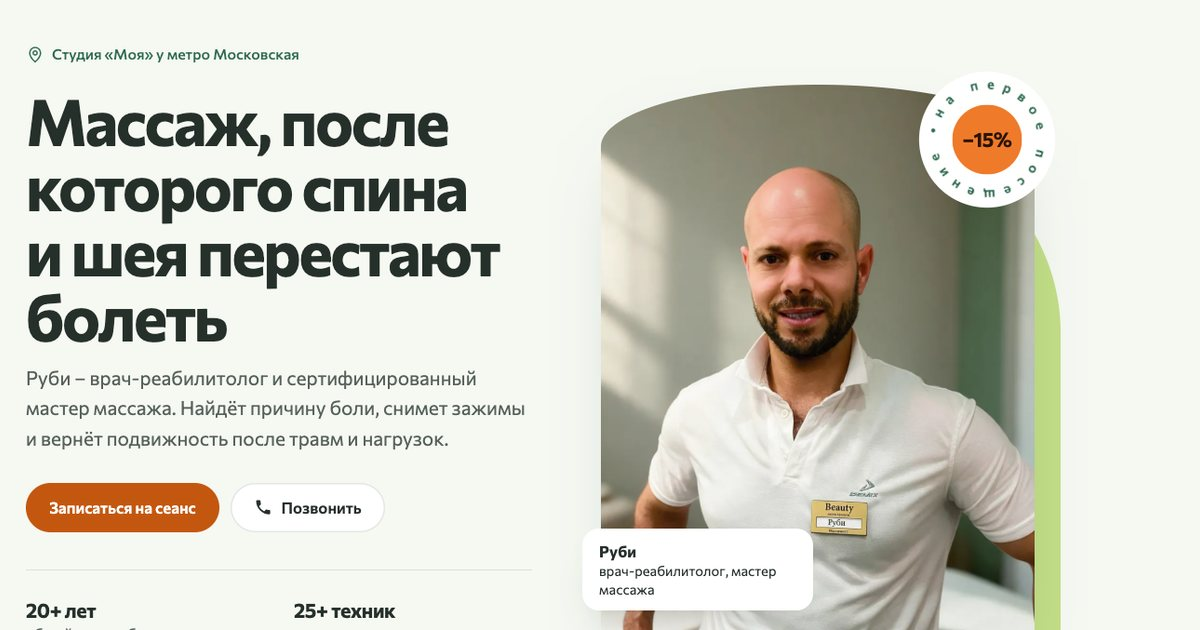
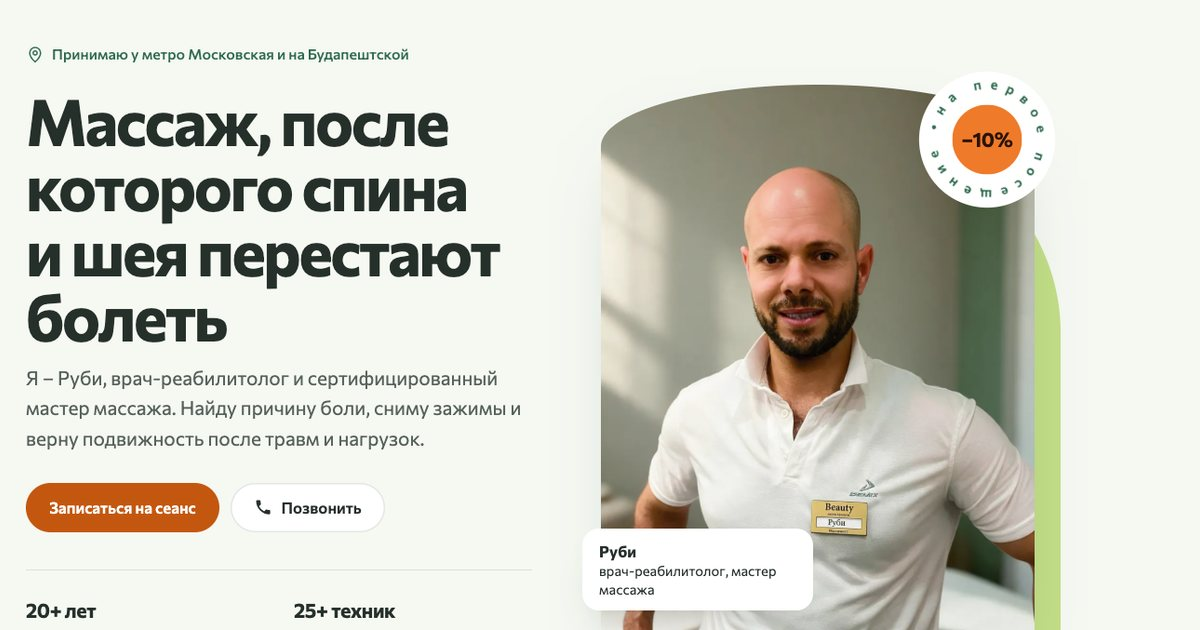
Сайт Руби: скидка 10%, второй адрес, тексты от первого лица

diff --git a/ruby/index.html b/ruby/index.html
@@ -5,11 +5,11 @@
 <meta name="viewport" content="width=device-width, initial-scale=1, viewport-fit=cover">
 <meta name="robots" content="noindex">
 <title>Массаж у метро Московская – Руби, врач-реабилитолог | студия «Моя»</title>
-<meta name="description" content="Лечебный массаж спины и шеи, реабилитация после травм, спортивный и расслабляющий массаж в Московском районе Санкт-Петербурга. Руби – врач-реабилитолог, стаж более 20 лет. Ул. Типанова, 27/39, ТК «Космос». −15% на первый визит.">
+<meta name="description" content="Я – Руби, врач-реабилитолог со стажем более 20 лет. Делаю лечебный массаж спины и шеи, реабилитацию после травм, спортивный и расслабляющий массаж в Санкт-Петербурге. Ул. Типанова, 27/39, ТК «Космос», и ул. Будапештская, 24, корп. 2. −10% на первый визит.">
 <meta property="og:type" content="website">
 <meta property="og:locale" content="ru_RU">
 <meta property="og:title" content="Массаж у врача-реабилитолога – Руби, м. Московская">
-<meta property="og:description" content="Боль в спине и шее, восстановление после травм и спорта. Стаж более 20 лет, 25+ техник. −15% на первый визит.">
+<meta property="og:description" content="Помогаю при боли в спине и шее, восстанавливаю после травм и спорта. Стаж более 20 лет, 25+ техник. −10% на первый визит.">
 <meta property="og:url" content="https://pavel-sites.github.io/ruby">
 <meta property="og:image" content="https://pavel-sites.github.io/ruby/assets/og.jpg">
 <meta property="og:image:width" content="1200">
@@ -241,6 +241,9 @@
   .addr__card .tel2 { font-weight: 600; text-decoration: none; }
   .addr__card p { line-height: 1.45; }
   .addr__card small { color: var(--ink-soft); font-size: .95rem; }
+  .places { display: grid; gap: .9rem; }
+  .places p { padding-left: 1rem; border-left: 3px solid var(--salad); }
+  .places a { color: var(--green); font-weight: 600; text-underline-offset: 3px; }
   .msg { display: flex; flex-wrap: wrap; gap: .5rem; }
   .msg a { display: inline-flex; align-items: center; gap: .5rem; min-height: 46px; padding: .5rem 1rem; border-radius: 999px; background: var(--white); text-decoration: none; font-weight: 600; font-size: .95rem; }
   .msg a svg { width: 22px; height: 22px; flex: none; }
@@ -289,17 +292,17 @@
   <section class="hero" id="top" aria-label="Руби, массаж и реабилитация">
     <div class="wrap hero__in">
       <div class="hero__text">
-        <p class="where"><svg aria-hidden="true"><use href="#i-pin"/></svg>Студия «Моя» у метро Московская</p>
+        <p class="where"><svg aria-hidden="true"><use href="#i-pin"/></svg>Принимаю у метро Московская и на Будапештской</p>
         <h1>Массаж, после которого спина и&nbsp;шея перестают болеть</h1>
-        <p class="lead">Руби – врач-реабилитолог и сертифицированный мастер массажа. Найдёт причину боли, снимет зажимы и вернёт подвижность после травм и нагрузок.</p>
+        <p class="lead">Я – Руби, врач-реабилитолог и сертифицированный мастер массажа. Найду причину боли, сниму зажимы и верну подвижность после травм и нагрузок.</p>
         <div class="hero__cta">
           <a class="btn btn--go" href="#zapis">Записаться на сеанс</a>
           <a class="btn btn--soft" href="tel:+78126432740" data-goal="call"><svg aria-hidden="true"><use href="#i-ph"/></svg>Позвонить</a>
         </div>
         <ul class="creds">
-          <li><b>20+ лет</b>общий стаж работы</li>
+          <li><b>20+ лет</b>моего стажа</li>
           <li><b>25+ техник</b>массажа и восстановления</li>
-          <li><b>Каир, Египет</b>медицинское образование</li>
+          <li><b>Каир, Египет</b>где я учился медицине</li>
           <li><b>Дипломы</b>международного образца</li>
         </ul>
       </div>
@@ -309,13 +312,13 @@
           <img src="assets/ruby.webp" alt="Руби, массажист и врач-реабилитолог, в кабинете студии «Моя»" width="900" height="1200" fetchpriority="high">
         </picture>
         <figcaption><b>Руби</b>врач-реабилитолог, мастер массажа</figcaption>
-        <a class="seal" href="#uslugi" aria-label="Скидка 15% на первое посещение">
+        <a class="seal" href="#uslugi" aria-label="Скидка 10% на первое посещение">
           <svg viewBox="0 0 160 160" aria-hidden="true">
             <defs><path id="ringpath" d="M80 80 m-58 0 a58 58 0 1 1 116 0 a58 58 0 1 1 -116 0"/></defs>
             <circle cx="80" cy="80" r="78" fill="#fff"/>
             <g class="ring"><text font-family="Commissioner, sans-serif" font-size="15.5" font-weight="600" fill="#2f6b4f" textLength="352" lengthAdjust="spacing"><textPath href="#ringpath" textLength="352" lengthAdjust="spacing">на первое посещение •</textPath></text></g>
             <circle cx="80" cy="80" r="40" fill="#ef7a2a"/>
-            <text x="80" y="88" text-anchor="middle" font-family="Commissioner, sans-serif" font-size="23" font-weight="700" letter-spacing="-.5" fill="#2a1406">−15%</text>
+            <text x="80" y="88" text-anchor="middle" font-family="Commissioner, sans-serif" font-size="23" font-weight="700" letter-spacing="-.5" fill="#2a1406">−10%</text>
           </svg>
         </a>
       </figure>
@@ -327,21 +330,21 @@
     <div class="wrap">
       <div class="req">
         <div class="req__head">
-          <h2 class="h2">С чем приходят к&nbsp;Руби</h2>
-          <p class="lead">Выберите, где беспокоит, – и узнайте, как проходит работа с этой зоной.</p>
+          <h2 class="h2">С чем ко мне приходят</h2>
+          <p class="lead">Выберите, где беспокоит, – и я расскажу, как работаю с этой зоной.</p>
         </div>
         <div class="req__body">
           <div class="zpanel" id="zpanel" role="tabpanel" aria-live="polite">
             <h3>Шея и плечи</h3>
             <p>Тяжесть в голове к вечеру, «каменные» плечи, головные боли после работы за компьютером.</p>
             <ul>
-              <li><svg aria-hidden="true"><use href="#i-ok"/></svg>Снимаем спазм шейно-воротниковой зоны</li>
-              <li><svg aria-hidden="true"><use href="#i-ok"/></svg>Возвращаем подвижность шее без резких движений</li>
-              <li><svg aria-hidden="true"><use href="#i-ok"/></svg>Показываем упражнения, чтобы эффект держался</li>
+              <li><svg aria-hidden="true"><use href="#i-ok"/></svg>Снимаю спазм шейно-воротниковой зоны</li>
+              <li><svg aria-hidden="true"><use href="#i-ok"/></svg>Возвращаю подвижность шее без резких движений</li>
+              <li><svg aria-hidden="true"><use href="#i-ok"/></svg>Показываю упражнения, чтобы эффект держался</li>
             </ul>
             <a href="#uslugi">Подходит: массаж шейно-воротниковой зоны</a>
           </div>
-          <p class="also">Ещё приходят без конкретной боли – за расслаблением, хорошим сном и красивой фигурой.</p>
+          <p class="also">Ещё ко мне приходят без конкретной боли – за расслаблением, хорошим сном и красивой фигурой.</p>
         </div>
         <div class="req__map">
           <svg class="spine" viewBox="0 0 120 561" aria-hidden="true"><line x1="60" y1="8" x2="60" y2="551" class="cord"/><g class="zone is-on" data-zone="neck"><rect x="45.0" y="16.0" width="30.0" height="11.0" rx="4.6"/><rect x="44.4" y="31.0" width="31.2" height="11.0" rx="4.6"/><rect x="43.8" y="46.0" width="32.4" height="11.0" rx="4.6"/><rect x="43.2" y="61.0" width="33.6" height="11.0" rx="4.6"/><rect x="42.6" y="76.0" width="34.8" height="11.0" rx="4.6"/><rect x="42.0" y="91.0" width="36.0" height="11.0" rx="4.6"/><rect x="41.4" y="106.0" width="37.2" height="11.0" rx="4.6"/></g><g class="zone" data-zone="chest"><rect x="40.0" y="127.0" width="40.0" height="14.0" rx="5.9"/><rect x="39.5" y="145.5" width="41.1" height="14.0" rx="5.9"/><rect x="38.9" y="164.0" width="42.2" height="14.0" rx="5.9"/><rect x="38.3" y="182.5" width="43.3" height="14.0" rx="5.9"/><rect x="37.8" y="201.0" width="44.4" height="14.0" rx="5.9"/><rect x="37.2" y="219.5" width="45.5" height="14.0" rx="5.9"/><rect x="36.7" y="238.0" width="46.6" height="14.0" rx="5.9"/><rect x="36.1" y="256.5" width="47.7" height="14.0" rx="5.9"/><rect x="35.6" y="275.0" width="48.8" height="14.0" rx="5.9"/><rect x="35.0" y="293.5" width="49.9" height="14.0" rx="5.9"/><rect x="34.5" y="312.0" width="51.0" height="14.0" rx="5.9"/><rect x="33.9" y="330.5" width="52.1" height="14.0" rx="5.9"/></g><g class="zone" data-zone="low"><rect x="32.0" y="355.0" width="56.0" height="19.0" rx="8.0"/><rect x="31.2" y="379.0" width="57.6" height="19.0" rx="8.0"/><rect x="30.4" y="403.0" width="59.2" height="19.0" rx="8.0"/><rect x="29.6" y="427.0" width="60.8" height="19.0" rx="8.0"/><rect x="28.8" y="451.0" width="62.4" height="19.0" rx="8.0"/></g><g class="zone" data-zone="legs"><path d="M30 481 H90 L72 543 Q60 555 48 543 Z"/></g></svg>
@@ -360,40 +363,40 @@
   <section class="sec" id="uslugi" aria-label="Услуги и цены" style="padding-top:0">
     <div class="wrap">
       <h2 class="h2">Услуги и цены</h2>
-      <p class="lead">Цены окончательные – без «от» и доплат на месте.</p>
+      <p class="lead">Мои цены окончательные – без «от» и доплат на месте.</p>
       <ul class="svc">
         <li><h3>Лечебный массаж спины</h3><p>Боль и зажимы в спине, сутулость, усталость от сидячей работы.</p><span class="price"><span class="slot">{{цена}} ₽</span><small><span class="slot">{{мин}}</span> мин</small></span><a class="btn btn--soft" href="#zapis" data-svc="Лечебный массаж спины">Записаться</a></li>
         <li><h3>Массаж шейно-воротниковой зоны</h3><p>Головные боли, тяжесть в плечах, скованность шеи.</p><span class="price"><span class="slot">{{цена}} ₽</span><small><span class="slot">{{мин}}</span> мин</small></span><a class="btn btn--soft" href="#zapis" data-svc="Массаж шейно-воротниковой зоны">Записаться</a></li>
-        <li><h3>Реабилитационный массаж после травм</h3><p>Восстановление после переломов, растяжений и операций – вместе с лечебной физкультурой.</p><span class="price"><span class="slot">{{цена}} ₽</span><small><span class="slot">{{мин}}</span> мин</small></span><a class="btn btn--soft" href="#zapis" data-svc="Реабилитационный массаж после травм">Записаться</a></li>
+        <li><h3>Реабилитационный массаж после травм</h3><p>Восстанавливаю после переломов, растяжений и операций – вместе с лечебной физкультурой.</p><span class="price"><span class="slot">{{цена}} ₽</span><small><span class="slot">{{мин}}</span> мин</small></span><a class="btn btn--soft" href="#zapis" data-svc="Реабилитационный массаж после травм">Записаться</a></li>
         <li><h3>Спортивный массаж</h3><p>Восстановление после тренировок и соревнований, профилактика травм.</p><span class="price"><span class="slot">{{цена}} ₽</span><small><span class="slot">{{мин}}</span> мин</small></span><a class="btn btn--soft" href="#zapis" data-svc="Спортивный массаж">Записаться</a></li>
         <li><h3>Расслабляющий массаж всего тела</h3><p>Стресс, плохой сон, когда хочется просто выдохнуть.</p><span class="price"><span class="slot">{{цена}} ₽</span><small><span class="slot">{{мин}}</span> мин</small></span><a class="btn btn--soft" href="#zapis" data-svc="Расслабляющий массаж всего тела">Записаться</a></li>
-        <li><h3>Моделирующий массаж и питание</h3><p>Фигура, отёки, тяжесть в ногах. Руби подскажет, как поддержать результат питанием.</p><span class="price"><span class="slot">{{цена}} ₽</span><small><span class="slot">{{мин}}</span> мин</small></span><a class="btn btn--soft" href="#zapis" data-svc="Моделирующий массаж и питание">Записаться</a></li>
+        <li><h3>Моделирующий массаж и питание</h3><p>Фигура, отёки, тяжесть в ногах. Подскажу, как поддержать результат питанием.</p><span class="price"><span class="slot">{{цена}} ₽</span><small><span class="slot">{{мин}}</span> мин</small></span><a class="btn btn--soft" href="#zapis" data-svc="Моделирующий массаж и питание">Записаться</a></li>
       </ul>
       <div class="offers">
-        <div class="offer offer--first"><b>−15% на первый визит</b><p>Скидка на любой массаж, если вы приходите к Руби впервые.</p></div>
-        <div class="offer offer--gift"><b>Абонементы и сертификаты</b><p>Курс сеансов выгоднее разовых, а сертификат – подарок, которому рады. Спросите при записи.</p></div>
+        <div class="offer offer--first"><b>−10% на первый визит</b><p>Скидка на любой массаж, если вы приходите ко мне впервые.</p></div>
+        <div class="offer offer--gift"><b>Абонементы и сертификаты</b><p>Курс сеансов выгоднее разовых, а сертификат – подарок, которому рады. Спросите меня при записи.</p></div>
       </div>
     </div>
   </section>
 
   <!-- 4 · обо мне -->
-  <section class="sec" id="obo-mne" aria-label="О Руби" style="padding-top:0">
+  <section class="sec" id="obo-mne" aria-label="Обо мне" style="padding-top:0">
     <div class="wrap about">
       <div class="about__txt">
-        <h2 class="h2">Руби знает тело, а&nbsp;не&nbsp;только технику</h2>
-        <p>Руби – врач-реабилитолог и специалист по лечебной физкультуре, получил образование в Каире. Больше 20 лет помогает людям избавиться от боли и вернуться к движению.</p>
-        <p>Он не делает «массаж по прайсу»: сначала разбирается, откуда боль, и только потом выбирает технику из 25 с лишним, которыми владеет. Работает один, поэтому весь курс вы проходите у одного мастера, который помнит вашу историю.</p>
+        <h2 class="h2">Я знаю тело, а&nbsp;не&nbsp;только технику</h2>
+        <p>Я врач-реабилитолог и специалист по лечебной физкультуре, учился в Каире. Больше 20 лет помогаю людям избавиться от боли и вернуться к движению.</p>
+        <p>Я не делаю «массаж по прайсу»: сначала разбираюсь, откуда боль, и только потом выбираю технику из 25 с лишним, которыми владею. Работаю один, поэтому весь курс вы проходите у меня, и я помню вашу историю.</p>
         <figure class="said">
           <blockquote><q>Золотые руки</q></blockquote>
           <blockquote><q>Спасибо, что помогли</q></blockquote>
-          <figcaption>Так чаще всего говорят клиенты после сеанса</figcaption>
+          <figcaption>Так чаще всего говорят мои клиенты после сеанса</figcaption>
         </figure>
       </div>
       <ul class="facts">
-        <li><svg viewBox="0 0 40 40" aria-hidden="true"><circle cx="20" cy="20" r="18" fill="#e4f0c8"/><path d="M13 20.5l5 5 9-10" fill="none" stroke="currentColor" stroke-width="2.4" stroke-linecap="round" stroke-linejoin="round"/></svg><div><b>Сертифицированный мастер массажа</b><span>Дипломы международного образца – покажет на первом сеансе</span></div></li>
+        <li><svg viewBox="0 0 40 40" aria-hidden="true"><circle cx="20" cy="20" r="18" fill="#e4f0c8"/><path d="M13 20.5l5 5 9-10" fill="none" stroke="currentColor" stroke-width="2.4" stroke-linecap="round" stroke-linejoin="round"/></svg><div><b>Сертифицированный мастер массажа</b><span>Дипломы международного образца – покажу на первом сеансе</span></div></li>
         <li><svg viewBox="0 0 40 40" aria-hidden="true"><circle cx="20" cy="20" r="18" fill="#e4f0c8"/><path d="M20 11v18M11 20h18" stroke="currentColor" stroke-width="2.4" stroke-linecap="round"/></svg><div><b>Врач-реабилитолог</b><span>Физическая реабилитация после травм и операций, лечебная физкультура</span></div></li>
-        <li><svg viewBox="0 0 40 40" aria-hidden="true"><circle cx="20" cy="20" r="18" fill="#e4f0c8"/><path d="M12 28c0-9 6-15 16-16 0 10-6 16-15 16zM12 28l8-8" fill="none" stroke="currentColor" stroke-width="2.2" stroke-linecap="round" stroke-linejoin="round"/></svg><div><b>Авторские методики</b><span>Сочетает массаж, восстановительные упражнения и диетотерапию</span></div></li>
-        <li><svg viewBox="0 0 40 40" aria-hidden="true"><circle cx="20" cy="20" r="18" fill="#e4f0c8"/><circle cx="20" cy="20" r="7" fill="none" stroke="currentColor" stroke-width="2.4"/><circle cx="20" cy="20" r="1.8" fill="currentColor"/></svg><div><b>Клиенты от 18 до 100 лет</b><span>Подбирает силу и технику под возраст и состояние</span></div></li>
+        <li><svg viewBox="0 0 40 40" aria-hidden="true"><circle cx="20" cy="20" r="18" fill="#e4f0c8"/><path d="M12 28c0-9 6-15 16-16 0 10-6 16-15 16zM12 28l8-8" fill="none" stroke="currentColor" stroke-width="2.2" stroke-linecap="round" stroke-linejoin="round"/></svg><div><b>Авторские методики</b><span>Сочетаю массаж, восстановительные упражнения и диетотерапию</span></div></li>
+        <li><svg viewBox="0 0 40 40" aria-hidden="true"><circle cx="20" cy="20" r="18" fill="#e4f0c8"/><circle cx="20" cy="20" r="7" fill="none" stroke="currentColor" stroke-width="2.4"/><circle cx="20" cy="20" r="1.8" fill="currentColor"/></svg><div><b>Клиенты от 18 до 100 лет</b><span>Подбираю силу и технику под возраст и состояние</span></div></li>
       </ul>
     </div>
   </section>
@@ -403,16 +406,16 @@
     <div class="wrap">
       <div class="first">
         <h2 class="h2">Как проходит первый сеанс</h2>
-        <p class="lead">Первый визит длиннее обычного: Руби сначала разбирается в причине, а потом работает.</p>
+        <p class="lead">Первый визит длиннее обычного: сначала я разбираюсь в причине, а потом работаю.</p>
         <ol class="steps">
-          <li><b>Разговор</b><p>Что беспокоит, были ли травмы и операции, какая у вас нагрузка.</p></li>
-          <li><b>Осмотр</b><p>Осанка, подвижность суставов, где спазм и откуда идёт боль.</p></li>
-          <li><b>Массаж</b><p>Техника под вашу задачу, сила давления – по вашим ощущениям.</p></li>
-          <li><b>План</b><p>Сколько сеансов нужно, упражнения и советы по питанию, чтобы результат держался.</p></li>
+          <li><b>Разговор</b><p>Спрошу, что беспокоит, были ли травмы и операции, какая у вас нагрузка.</p></li>
+          <li><b>Осмотр</b><p>Смотрю осанку и подвижность суставов, ищу, где спазм и откуда идёт боль.</p></li>
+          <li><b>Массаж</b><p>Подбираю технику под вашу задачу, силу давления – по вашим ощущениям.</p></li>
+          <li><b>План</b><p>Скажу, сколько сеансов нужно, дам упражнения и советы по питанию, чтобы результат держался.</p></li>
         </ol>
         <div class="care">
           <svg viewBox="0 0 24 24" aria-hidden="true"><path d="M12 3l7 3v5.5c0 4.4-3 8-7 9.5-4-1.5-7-5.1-7-9.5V6z" fill="none" stroke="currentColor" stroke-width="1.8" stroke-linejoin="round"/><path d="M9 12l2.2 2.2L15.5 10" fill="none" stroke="currentColor" stroke-width="1.8" stroke-linecap="round" stroke-linejoin="round"/></svg>
-          <p>Деликатно и с врачебной этикой: открыта только зона массажа, остальное укрыто. Сеанс можно остановить в любой момент.</p>
+          <p>Работаю деликатно и по врачебной этике: открыта только зона массажа, остальное укрыто. Сеанс можно остановить в любой момент.</p>
         </div>
       </div>
     </div>
@@ -423,7 +426,7 @@
     <div class="wrap rev">
       <div>
         <h2 class="h2">Отзывы клиентов</h2>
-        <p class="lead">Большинство клиентов приходят по совету знакомых. Почитайте, что пишут о студии и о Руби.</p>
+        <p class="lead">Большинство клиентов приходят ко мне по совету знакомых. Почитайте, что пишут обо мне и о студии.</p>
       </div>
       <div class="rev__links">
         <a href="https://yandex.ru/maps/org/1150076234/reviews/" target="_blank" rel="noopener">Яндекс Карты<span>отзывы о студии</span></a>
@@ -437,12 +440,12 @@
     <div class="wrap">
       <h2 class="h2">Вопросы и ответы</h2>
       <div class="faq">
-        <details name="faq" open><summary>Через сколько сеансов будет результат?<i aria-hidden="true"></i></summary><p>Облегчение многие чувствуют уже после первого сеанса. Чтобы результат держался, Руби на первом визите оценивает состояние и составляет план: курс массажа, упражнения и, если нужно, рекомендации по питанию. Число сеансов зависит от задачи – он назовёт его честно.</p></details>
-        <details name="faq"><summary>Это деликатно? Я стесняюсь<i aria-hidden="true"></i></summary><p>Руби – врач и работает по медицинской этике. Открыта только та зона, с которой он работает, остальное укрыто. Силу давления можно попросить изменить, а сеанс – остановить в любой момент.</p></details>
-        <details name="faq"><summary>Есть ли противопоказания?<i aria-hidden="true"></i></summary><p>Массаж переносят при температуре, острых воспалениях и обострениях хронических болезней. Если у вас есть диагнозы, скажите о них при записи – Руби подскажет, можно ли массаж и какой.</p></details>
-        <details name="faq"><summary>Работаете с детьми и подростками?<i aria-hidden="true"></i></summary><p>Клиентам младше 18 лет – только с согласия родителей и в их присутствии.</p></details>
-        <details name="faq"><summary>Что если я опоздаю?<i aria-hidden="true"></i></summary><p>Предупредите по телефону или в мессенджере. Если опоздание больше 15 минут, сеанс может стать короче или его придётся перенести, чтобы не задерживать следующего клиента.</p></details>
-        <details name="faq"><summary>Можно подарить массаж?<i aria-hidden="true"></i></summary><p>Да, есть подарочные сертификаты. А если планируете курс, спросите про абонемент – он выгоднее разовых сеансов.</p></details>
+        <details name="faq" open><summary>Через сколько сеансов будет результат?<i aria-hidden="true"></i></summary><p>Облегчение многие чувствуют уже после первого сеанса. Чтобы результат держался, на первом визите я оцениваю состояние и составляю план: курс массажа, упражнения и, если нужно, рекомендации по питанию. Число сеансов зависит от задачи – я назову его честно.</p></details>
+        <details name="faq"><summary>Это деликатно? Я стесняюсь<i aria-hidden="true"></i></summary><p>Я врач и работаю по медицинской этике. Открыта только та зона, с которой я работаю, остальное укрыто. Силу давления можно попросить изменить, а сеанс – остановить в любой момент.</p></details>
+        <details name="faq"><summary>Есть ли противопоказания?<i aria-hidden="true"></i></summary><p>Массаж переносим при температуре, острых воспалениях и обострениях хронических болезней. Если у вас есть диагнозы, скажите о них при записи – я подскажу, можно ли массаж и какой.</p></details>
+        <details name="faq"><summary>Работаете с детьми и подростками?<i aria-hidden="true"></i></summary><p>С клиентами младше 18 лет я работаю только с согласия родителей и в их присутствии.</p></details>
+        <details name="faq"><summary>Что если я опоздаю?<i aria-hidden="true"></i></summary><p>Предупредите меня по телефону или в мессенджере. Если опоздание больше 15 минут, сеанс может стать короче или его придётся перенести, чтобы я не задерживал следующего клиента.</p></details>
+        <details name="faq"><summary>Можно подарить массаж?<i aria-hidden="true"></i></summary><p>Да, у меня есть подарочные сертификаты. А если планируете курс, спросите про абонемент – он выгоднее разовых сеансов.</p></details>
       </div>
     </div>
   </section>
@@ -451,13 +454,14 @@
   <section class="sec" id="kontakty" aria-label="Контакты и запись" style="padding-top:0">
     <div class="wrap kont">
       <div class="form" id="zapis">
-        <h2 class="h2">Записаться к&nbsp;Руби</h2>
-        <p>Оставьте телефон – перезвоним и подберём удобное время. Скидка 15% на первый визит.</p>
+        <h2 class="h2">Записаться ко&nbsp;мне</h2>
+        <p>Оставьте телефон – я перезвоню, и подберём удобное время и адрес. Скидка 10% на первый визит.</p>
         <form id="zform" novalidate>
           <div class="two">
             <label>Как к вам обращаться<input name="name" autocomplete="given-name" required></label>
             <label>Телефон<input name="phone" type="tel" inputmode="tel" autocomplete="tel" placeholder="+7" required></label>
           </div>
+          <label>Где удобнее<select name="place"><option>Типанова, 27/39 (м. Московская)</option><option>Будапештская, 24, корп. 2</option><option>Подскажите, где ближе</option></select></label>
           <label>Что беспокоит<select name="svc" id="zsvc">
             <option>Пока не знаю – подскажите</option>
             <option>Лечебный массаж спины</option>
@@ -470,14 +474,17 @@
           <label class="ok-box"><input type="checkbox" name="ok" required><span>Согласен(на) на обработку персональных данных по <a href="{{ссылка-политики}}">политике конфиденциальности</a></span></label>
           <button class="btn btn--go" type="submit">Записаться</button>
         </form>
-        <div class="done" role="status"><b>Заявка отправлена</b><p>Перезвоним в течение дня с 10:00 до 22:00 и подберём время.</p></div>
+        <div class="done" role="status"><b>Заявка отправлена</b><p>Перезвоню в течение дня с 10:00 до 22:00, и подберём время.</p></div>
       </div>
       <div class="addr">
         <div class="addr__card">
           <a class="tel" href="tel:+78126432740" data-goal="call">8 (812) 643-27-40</a>
           <a class="tel2" href="tel:+79219225094" data-goal="call">8 (921) 922-50-94</a>
-          <p><b>Санкт-Петербург, ул. Типанова, 27/39, ТК «Космос»</b><br>Студия красоты «Моя» (бывший салон Beauty), метро Московская</p>
-          <small>Приём по записи с 10:00 до 22:00</small>
+          <div class="places">
+            <p><b>ул. Типанова, 27/39, ТК «Космос»</b><br>Студия красоты «Моя» (бывший салон Beauty), метро Московская</p>
+            <p><b>ул. Будапештская, 24, корп. 2</b><br>Спа <span class="slot">{{название}}</span>, <a href="https://yandex.ru/maps/2/saint-petersburg/?text=%D0%A1%D0%B0%D0%BD%D0%BA%D1%82-%D0%9F%D0%B5%D1%82%D0%B5%D1%80%D0%B1%D1%83%D1%80%D0%B3%2C%20%D0%91%D1%83%D0%B4%D0%B0%D0%BF%D0%B5%D1%88%D1%82%D1%81%D0%BA%D0%B0%D1%8F%2024%20%D0%BA2" target="_blank" rel="noopener">маршрут на карте</a></p>
+          </div>
+          <small>Санкт-Петербург. Принимаю по записи с 10:00 до 22:00</small>
           <div class="msg">
             <a href="https://wa.me/79219225094" target="_blank" rel="noopener" data-goal="wa"><svg aria-hidden="true"><use href="#i-wa"/></svg>WhatsApp</a>
             <a href="https://vk.com/salonbeauty" target="_blank" rel="noopener" data-goal="vk"><svg aria-hidden="true"><use href="#i-vk"/></svg>ВКонтакте</a>
@@ -509,10 +516,10 @@
 
     /* позвоночник: зона → описание */
     var Z = {
-      neck: { t: 'Шея и плечи', p: 'Тяжесть в голове к вечеру, «каменные» плечи, головные боли после работы за компьютером.', l: ['Снимаем спазм шейно-воротниковой зоны', 'Возвращаем подвижность шее без резких движений', 'Показываем упражнения, чтобы эффект держался'], s: 'массаж шейно-воротниковой зоны' },
-      chest: { t: 'Спина между лопаток', p: 'Ноет между лопатками, тянет при глубоком вдохе, сутулитесь к концу дня.', l: ['Расслабляем глубокие мышцы спины', 'Работаем с осанкой, а не только с болью', 'Подсказываем, как сидеть и спать, чтобы не возвращалось'], s: 'лечебный массаж спины' },
-      low: { t: 'Поясница', p: 'Ломит после сидения или подъёма тяжестей, трудно разогнуться утром.', l: ['Находим, откуда идёт боль: мышцы, суставы или осанка', 'Снимаем спазм и возвращаем подвижность', 'Даём упражнения для мышц, которые держат спину'], s: 'лечебный массаж спины' },
-      legs: { t: 'После травм и спорта', p: 'Восстановление после переломов, растяжений и операций, тяжесть в ногах после нагрузок.', l: ['Реабилитационный массаж по этапам восстановления', 'Лечебная физкультура – Руби врач-реабилитолог', 'Спортивный массаж до и после тренировок'], s: 'реабилитационный или спортивный массаж' }
+      neck: { t: 'Шея и плечи', p: 'Тяжесть в голове к вечеру, «каменные» плечи, головные боли после работы за компьютером.', l: ['Снимаю спазм шейно-воротниковой зоны', 'Возвращаю подвижность шее без резких движений', 'Показываю упражнения, чтобы эффект держался'], s: 'массаж шейно-воротниковой зоны' },
+      chest: { t: 'Спина между лопаток', p: 'Ноет между лопатками, тянет при глубоком вдохе, сутулитесь к концу дня.', l: ['Расслабляю глубокие мышцы спины', 'Работаю с осанкой, а не только с болью', 'Подскажу, как сидеть и спать, чтобы боль не возвращалась'], s: 'лечебный массаж спины' },
+      low: { t: 'Поясница', p: 'Ломит после сидения или подъёма тяжестей, трудно разогнуться утром.', l: ['Нахожу, откуда идёт боль: мышцы, суставы или осанка', 'Снимаю спазм и возвращаю подвижность', 'Даю упражнения для мышц, которые держат спину'], s: 'лечебный массаж спины' },
+      legs: { t: 'После травм и спорта', p: 'Восстановление после переломов, растяжений и операций, тяжесть в ногах после нагрузок.', l: ['Реабилитационный массаж по этапам восстановления', 'Лечебная физкультура – я врач-реабилитолог', 'Спортивный массаж до и после тренировок'], s: 'реабилитационный или спортивный массаж' }
     };
     var panel = document.getElementById('zpanel'), btns = [].slice.call(document.querySelectorAll('.zbtn')), zones = [].slice.call(document.querySelectorAll('.spine .zone'));
     var ok = '<svg aria-hidden="true"><use href="#i-ok"/></svg>';
